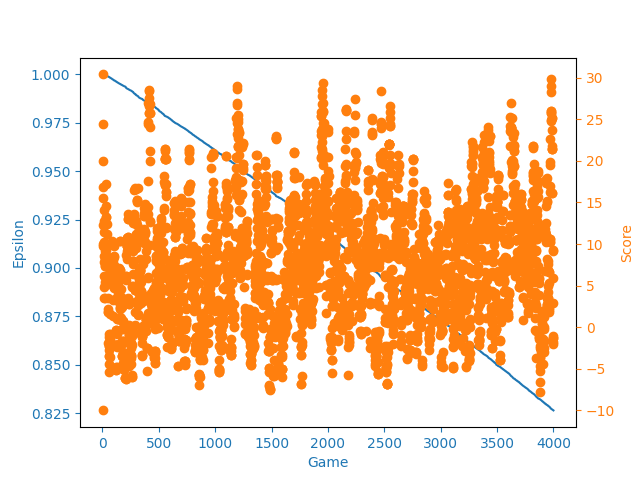
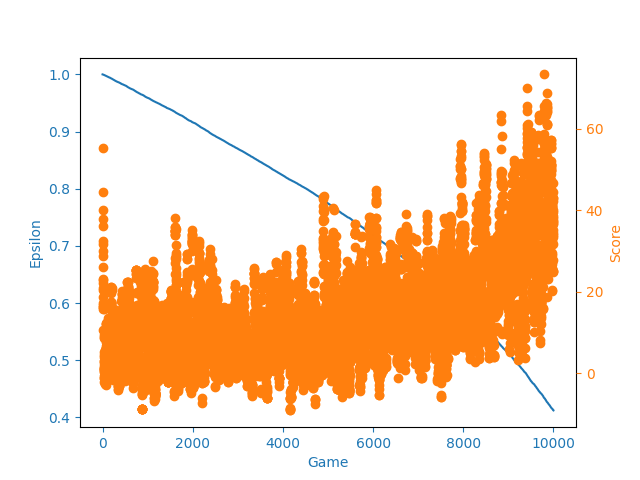
update EPS_DEC value and some constants

diff --git a/src/main.py b/src/main.py
@@ -16,7 +16,7 @@ def main():
 
     
     # Init shared memory manager
-    SharedMemoryManager()
+    sharedMemoryManager=SharedMemoryManager()
 
     agent = Agent(gamma = GAMMA, epsilon = EPSILON, lr = LR, input_dims = INPUT_DIMS, batch_size = BATCH_SIZE, n_actions = NB_ACTIONS, eps_end = EPS_MIN, eps_dec = EPS_DEC)
 
@@ -31,13 +31,11 @@ def main():
     cpt_episode = 0
     total_avg_score = 0
     last_avg_score = -10
+    last_player_position = None
+    current_player_position = None
+    step_count = 0
     for episode in range(NB_GAMES):
         observation = get_initial_game_state()
-        # for row_idx, row in enumerate(observation):
-        #     if 5 in row:  # Player position marker
-        #         current_player_position = (row_idx, row.index(5))
-        #         break
-
         done = False
         score = 0
         lastScore = 0

diff --git a/src/constants/constants.py b/src/constants/constants.py
@@ -24,7 +24,7 @@ GAMMA = 0.99
 EPSILON = 1.0
 BATCH_SIZE = 64
 EPS_MIN = 0.01
-EPS_DEC = 1e-5
+EPS_DEC = 1e-4
 NB_ACTIONS = 3
 # INPUT_DIMS = PAD_PER_FIELDS[0] + PAD_PER_FIELDS[1] + PAD_PER_FIELDS[2] + PAD_PER_FIELDS[3] + 2
 INPUT_DIMS = (1, 15, 11)
